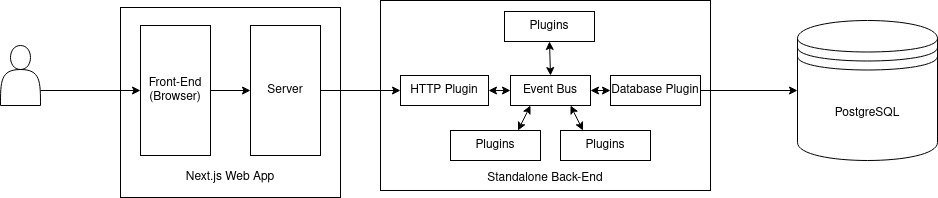
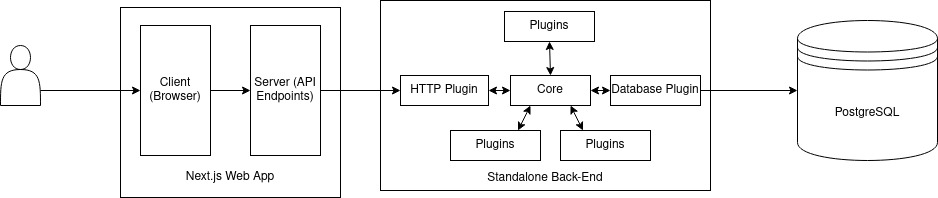
docs: slightly improve overview

Changed region(s): [[0.2473, 0.3939, 0.3401, 0.5152], [0.5565, 0.4242, 0.6183, 0.4848], [0.1546, 0.3939, 0.2164, 0.4545]]

diff --git a/docs/dev/overview.html b/docs/dev/overview.html
@@ -8,7 +8,7 @@
 <h2 id="database">Database</h2>
 <p>The database is a PostgreSQL server. Currently, it runs in a Docker container to facilitate development, we have not yet decided whether to maintain this in production.</p>
 <h2 id="back-end-the-core">Back-End: The Core</h2>
-<p>The back-end centers around an event bus system named IntuTable, whose main module is called the “core”. The core loads a given list of plugins on start-up, each of which listens on a <em>channel</em> and expose certain <em>methods</em>. These can be called by passing a JSON object to the core’s <code>request</code> method. Example:</p>
+<p>The back-end centers around an event bus system named IntuTable, whose main module is called the “core”. The core loads a given list of plugins on start-up, each of which listens on a <em>channel</em> and exposes certain <em>methods</em>. These can be called by passing a JSON object to the core’s <code>request</code> method. Example:</p>
 <div class="sourceCode" id="cb1"><pre class="sourceCode typescript"><code class="sourceCode typescript"><span id="cb1-1"><a href="#cb1-1" aria-hidden="true" tabindex="-1"></a><span class="im">import</span> <span class="op">*</span> <span class="im">as</span> db from <span class="st">&quot;@intutable/database/dist/requests&quot;</span></span>
 <span id="cb1-2"><a href="#cb1-2" aria-hidden="true" tabindex="-1"></a></span>
 <span id="cb1-3"><a href="#cb1-3" aria-hidden="true" tabindex="-1"></a><span class="co">// note: Do not construct requests manually like this...</span></span>
@@ -18,11 +18,12 @@
 <span id="cb1-7"><a href="#cb1-7" aria-hidden="true" tabindex="-1"></a>    table<span class="op">:</span> <span class="st">&quot;users&quot;</span><span class="op">,</span></span>
 <span id="cb1-8"><a href="#cb1-8" aria-hidden="true" tabindex="-1"></a>    columns<span class="op">:</span> [<span class="st">&quot;email&quot;</span><span class="op">,</span> <span class="st">&quot;password&quot;</span>]</span>
 <span id="cb1-9"><a href="#cb1-9" aria-hidden="true" tabindex="-1"></a>})</span>
-<span id="cb1-10"><a href="#cb1-10" aria-hidden="true" tabindex="-1"></a><span class="co">// ... instead use the request constructor the database plugin exports:</span></span>
-<span id="cb1-11"><a href="#cb1-11" aria-hidden="true" tabindex="-1"></a>const rows <span class="op">=</span> await core<span class="op">.</span><span class="at">events</span><span class="op">.</span><span class="fu">request</span>(</span>
-<span id="cb1-12"><a href="#cb1-12" aria-hidden="true" tabindex="-1"></a>    db<span class="op">.</span><span class="fu">select</span>(<span class="st">&quot;users&quot;</span><span class="op">,</span> { columns<span class="op">:</span> [<span class="st">&quot;email&quot;</span><span class="op">,</span> <span class="st">&quot;password&quot;</span>] })</span>
-<span id="cb1-13"><a href="#cb1-13" aria-hidden="true" tabindex="-1"></a>)</span></code></pre></div>
-<p>In addition to this basic remote procedure call (RPC) functionality, the core supports events called <em>notifications</em>. A request is directed <em>at</em> one plugin, a notification comes <em>from</em> a plugin. Only one plugin may listen for requests on a given channel, but all plugins can listen for notifications. A request must have a response, a notification need not. This enables plugins to interact very closely with each other while remaining separated, independent functional units. Example:</p>
+<span id="cb1-10"><a href="#cb1-10" aria-hidden="true" tabindex="-1"></a><span class="co">// ... instead use the request constructor that the database</span></span>
+<span id="cb1-11"><a href="#cb1-11" aria-hidden="true" tabindex="-1"></a><span class="co">// plugin exports:</span></span>
+<span id="cb1-12"><a href="#cb1-12" aria-hidden="true" tabindex="-1"></a>const rows <span class="op">=</span> await core<span class="op">.</span><span class="at">events</span><span class="op">.</span><span class="fu">request</span>(</span>
+<span id="cb1-13"><a href="#cb1-13" aria-hidden="true" tabindex="-1"></a>    db<span class="op">.</span><span class="fu">select</span>(<span class="st">&quot;users&quot;</span><span class="op">,</span> { columns<span class="op">:</span> [<span class="st">&quot;email&quot;</span><span class="op">,</span> <span class="st">&quot;password&quot;</span>] })</span>
+<span id="cb1-14"><a href="#cb1-14" aria-hidden="true" tabindex="-1"></a>)</span></code></pre></div>
+<p>In addition to this basic remote procedure call (RPC) functionality, the core supports events called <em>notifications</em>. A request is directed <em>at</em> one plugin, a notification comes <em>from</em> a plugin. Only one plugin may listen for requests on a given channel, but all plugins can listen for all notifications. A request must have a response, a notification need not. This enables plugins to interact very closely with each other while remaining separated, independent functional units. Example:</p>
 <div class="sourceCode" id="cb2"><pre class="sourceCode typescript"><code class="sourceCode typescript"><span id="cb2-1"><a href="#cb2-1" aria-hidden="true" tabindex="-1"></a><span class="co">// database plugin:</span></span>
 <span id="cb2-2"><a href="#cb2-2" aria-hidden="true" tabindex="-1"></a>core<span class="op">.</span><span class="at">events</span><span class="op">.</span><span class="fu">listenForRequests</span>(<span class="st">&quot;database&quot;</span>)</span>
 <span id="cb2-3"><a href="#cb2-3" aria-hidden="true" tabindex="-1"></a>    <span class="op">.</span><span class="fu">on</span>(<span class="st">&quot;deleteTable&quot;</span><span class="op">,</span> (request) <span class="kw">=&gt;</span> {</span>
@@ -39,7 +40,7 @@
 <span id="cb2-14"><a href="#cb2-14" aria-hidden="true" tabindex="-1"></a>    <span class="op">.</span><span class="fu">on</span>(<span class="st">&quot;tableDeleted&quot;</span><span class="op">,</span> (request) <span class="kw">=&gt;</span> <span class="fu">deleteTableMetadata</span>(request))</span>
 <span id="cb2-15"><a href="#cb2-15" aria-hidden="true" tabindex="-1"></a></span>
 <span id="cb2-16"><a href="#cb2-16" aria-hidden="true" tabindex="-1"></a><span class="co">// ==&gt; database plugin can control higher-level metadata plugin</span></span>
-<span id="cb2-17"><a href="#cb2-17" aria-hidden="true" tabindex="-1"></a><span class="co">// without having to be explicitly programmed for it</span></span></code></pre></div>
+<span id="cb2-17"><a href="#cb2-17" aria-hidden="true" tabindex="-1"></a><span class="co">// without being dependent on it in any way</span></span></code></pre></div>
 <p>An overview of the most important plugins:<br />
 - <code>database</code>: Wraps the <a href="https://knexjs.org/"><code>knex</code></a> library for basic, unconstrained database access.<br />
 - <code>project-management</code>: Allows creating and editing SQL tables with metadata and assigning of these tables to projects and users.<br />

diff --git a/docs/dev/overview.md b/docs/dev/overview.md
@@ -21,7 +21,7 @@ this in production.
 ## Back-End: The Core
 The back-end centers around an event bus system named IntuTable, whose
 main module is called the "core". The core loads a given list of plugins
-on start-up, each of which listens on a _channel_ and expose certain
+on start-up, each of which listens on a _channel_ and exposes certain
 _methods_. These can be called by passing a JSON object to the
 core's `request` method.
 Example:
@@ -35,7 +35,8 @@ const rows = await core.events.request({
     table: "users",
     columns: ["email", "password"]
 })
-// ... instead use the request constructor the database plugin exports:
+// ... instead use the request constructor that the database
+// plugin exports:
 const rows = await core.events.request(
     db.select("users", { columns: ["email", "password"] })
 )
@@ -44,7 +45,7 @@ In addition to this basic remote procedure call (RPC) functionality, the
 core supports events called _notifications_. A request is directed _at_
 one plugin, a notification comes _from_ a plugin. Only one plugin may
 listen for requests on a given channel, but all plugins can listen for
-notifications. A request must have a response, a notification need not.
+all notifications. A request must have a response, a notification need not.
 This enables plugins to interact very closely with each other while
 remaining separated, independent functional units.
 Example:
@@ -65,7 +66,7 @@ core.events.listenForNotifications("database")
     .on("tableDeleted", (request) => deleteTableMetadata(request))
 
 // ==> database plugin can control higher-level metadata plugin
-// without having to be explicitly programmed for it
+// without being dependent on it in any way
 ```
 An overview of the most important plugins:  
     - `database`: Wraps the [`knex`](https://knexjs.org/) library for
